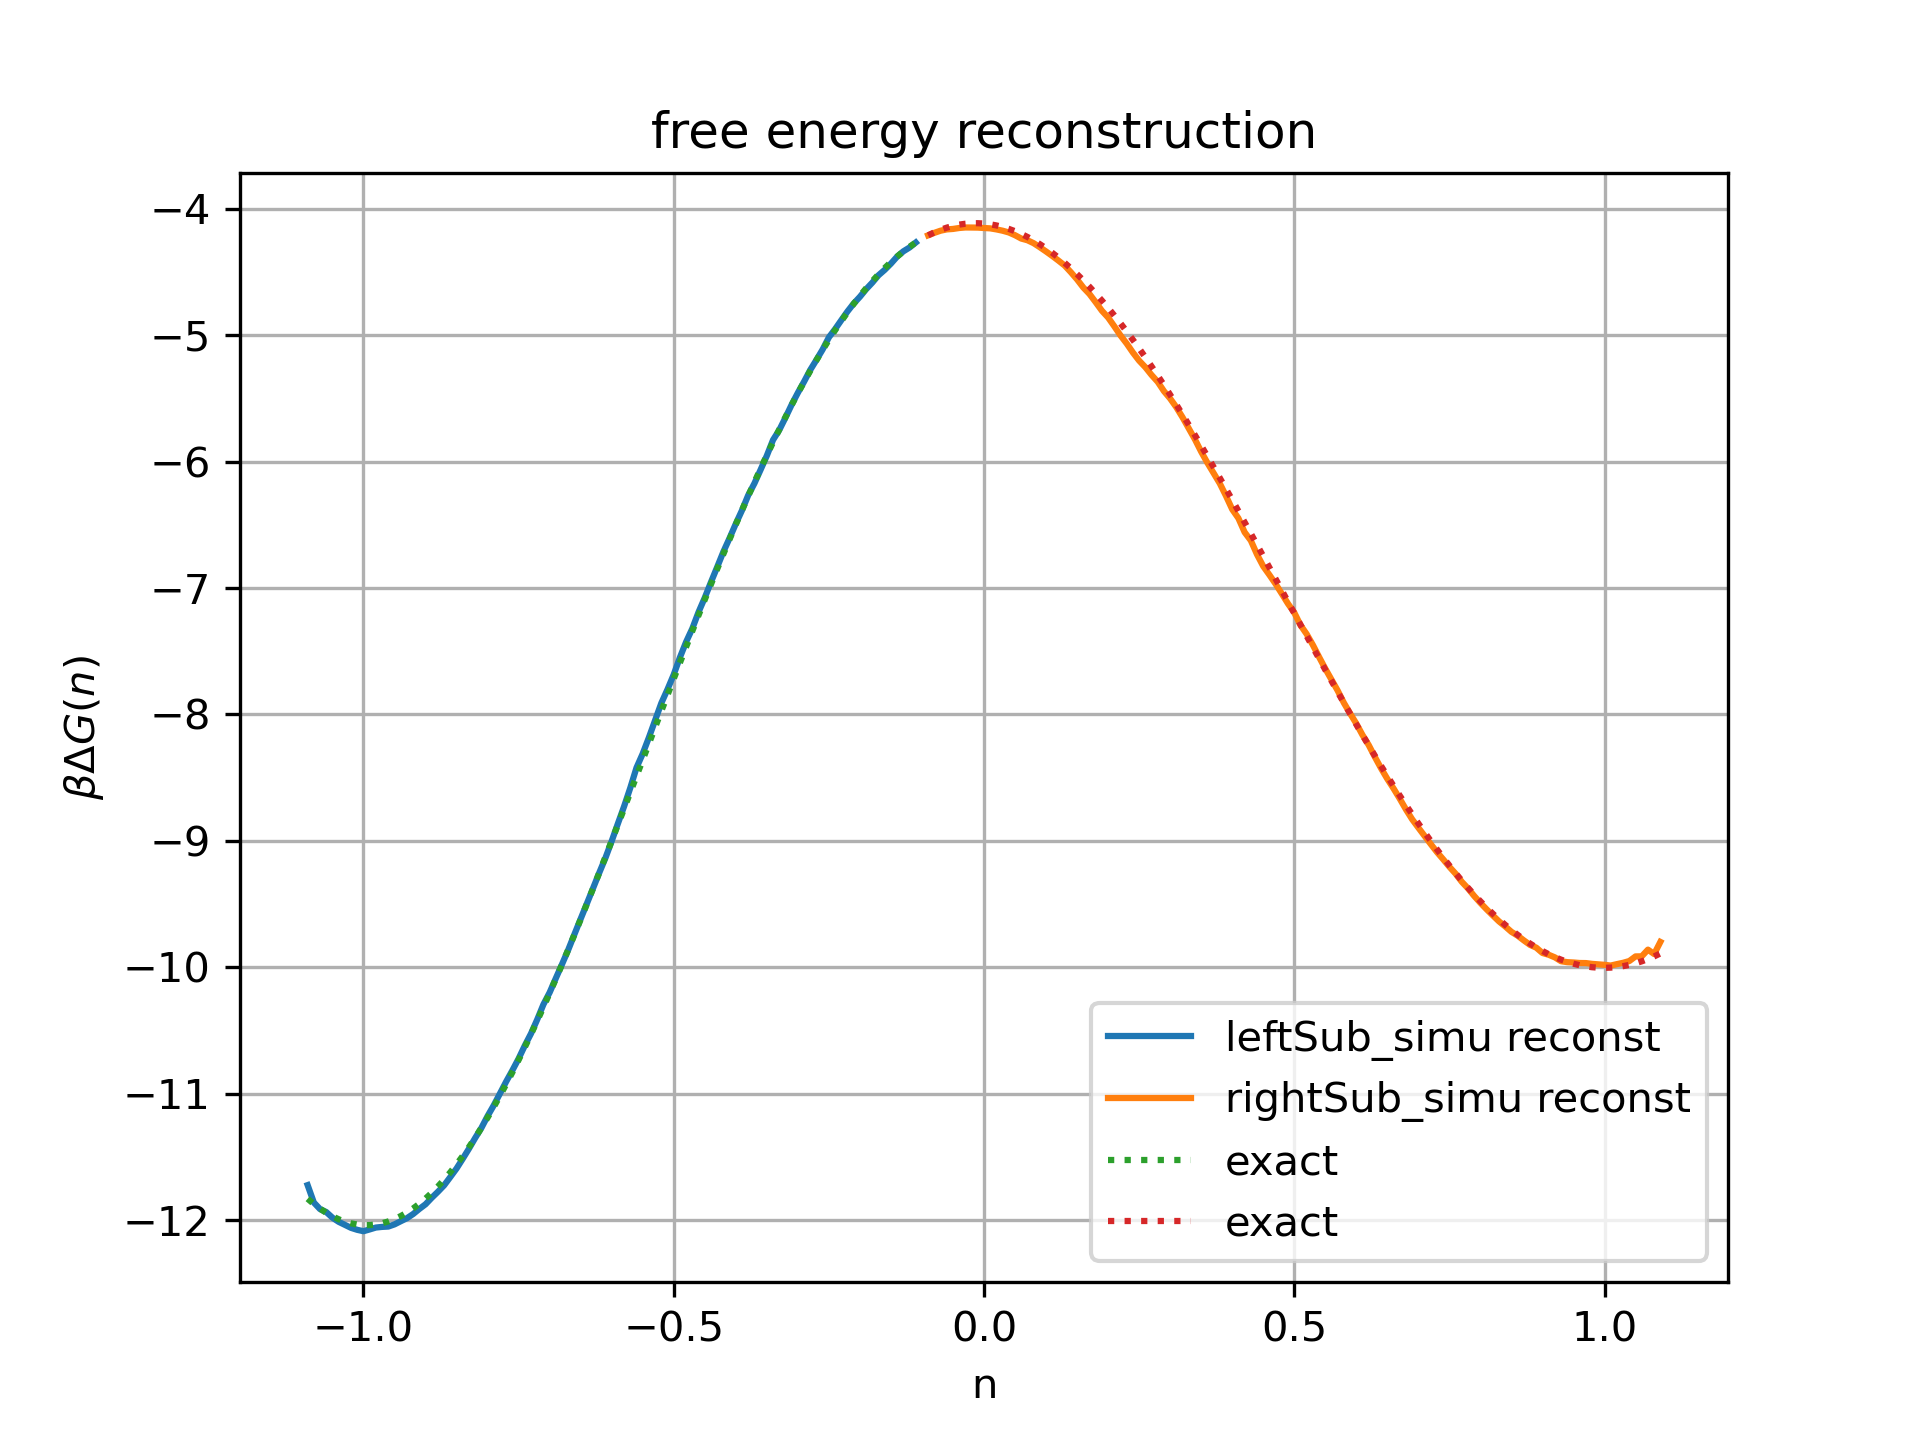
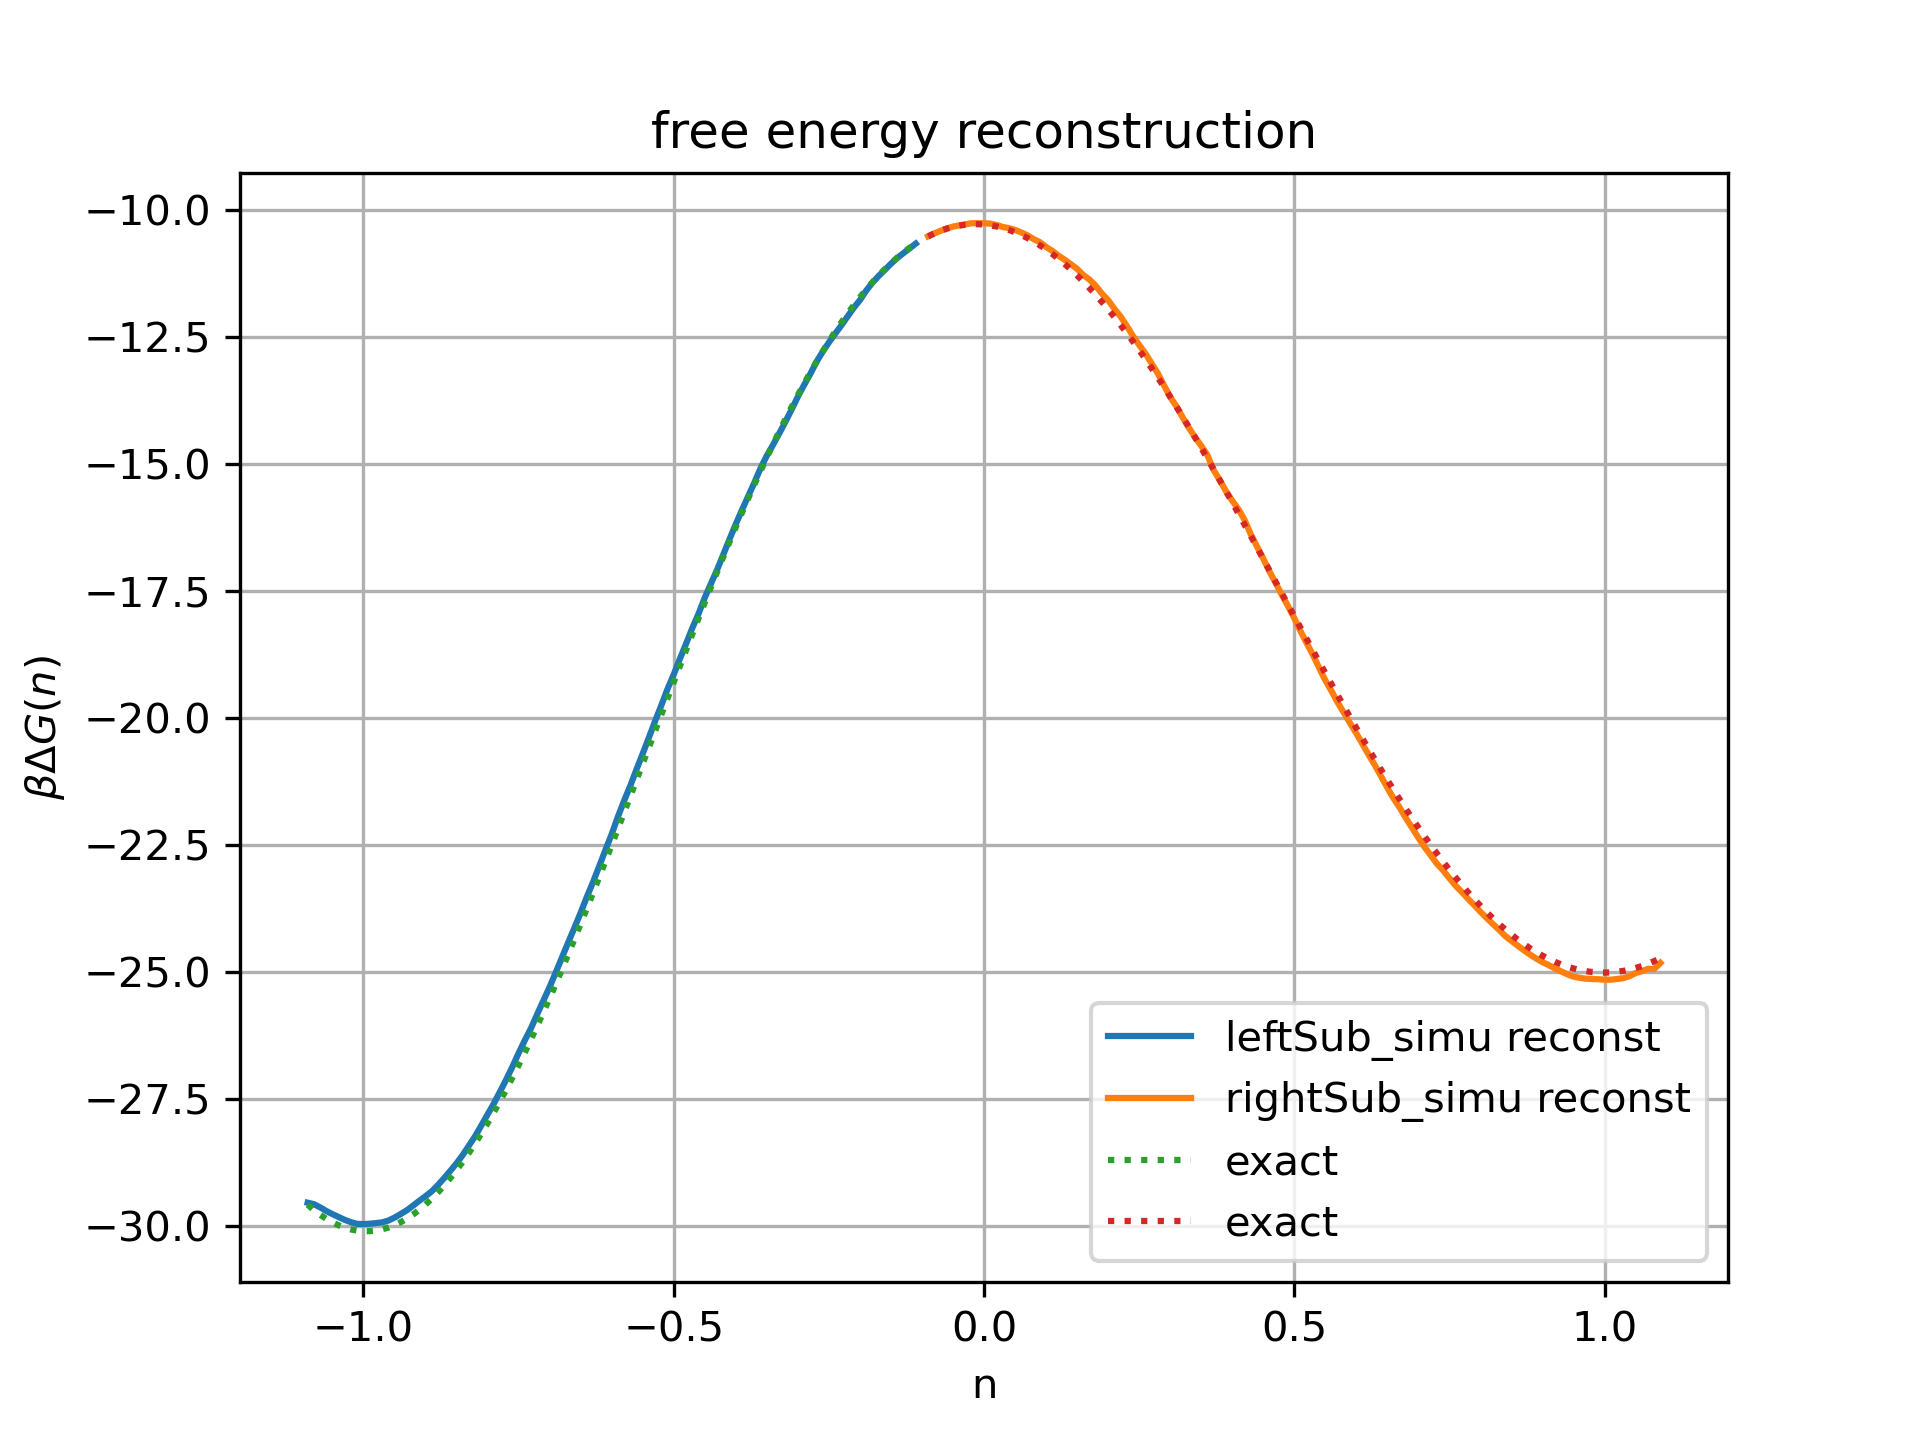
Frugal top-start method simulation script, data, and graphs for random walk with high energy barrier

diff --git a/Top_start_method/Random_walk_Model/Frugal_verison/frugal_top_start_reconst_simulation.py b/Top_start_method/Random_walk_Model/Frugal_verison/frugal_top_start_reconst_simulation.py
@@ -7,8 +7,8 @@ from scipy.interpolate import interp1d, PchipInterpolator, CubicSpline
 
 # Define the double-well potential using two Gaussian functions
 # def double_gaussian_potential(x, A1=3, mu1=-1, sigma1=0.5, A2=4, mu2=1, sigma2=0.6):
-def double_gaussian_potential(x, A1=12, mu1=-1, sigma1=0.5, A2=10, mu2=1, sigma2=0.6):
-# def double_gaussian_potential(x, A1=30, mu1=-1, sigma1=0.5, A2=25, mu2=1, sigma2=0.6):
+# def double_gaussian_potential(x, A1=12, mu1=-1, sigma1=0.5, A2=10, mu2=1, sigma2=0.6):
+def double_gaussian_potential(x, A1=30, mu1=-1, sigma1=0.5, A2=25, mu2=1, sigma2=0.6):
     V1 = A1 * np.exp(-((x - mu1)**2) / (2 * sigma1**2))
     V2 = A2 * np.exp(-((x - mu2)**2) / (2 * sigma2**2))
     return -(V1 + V2)
